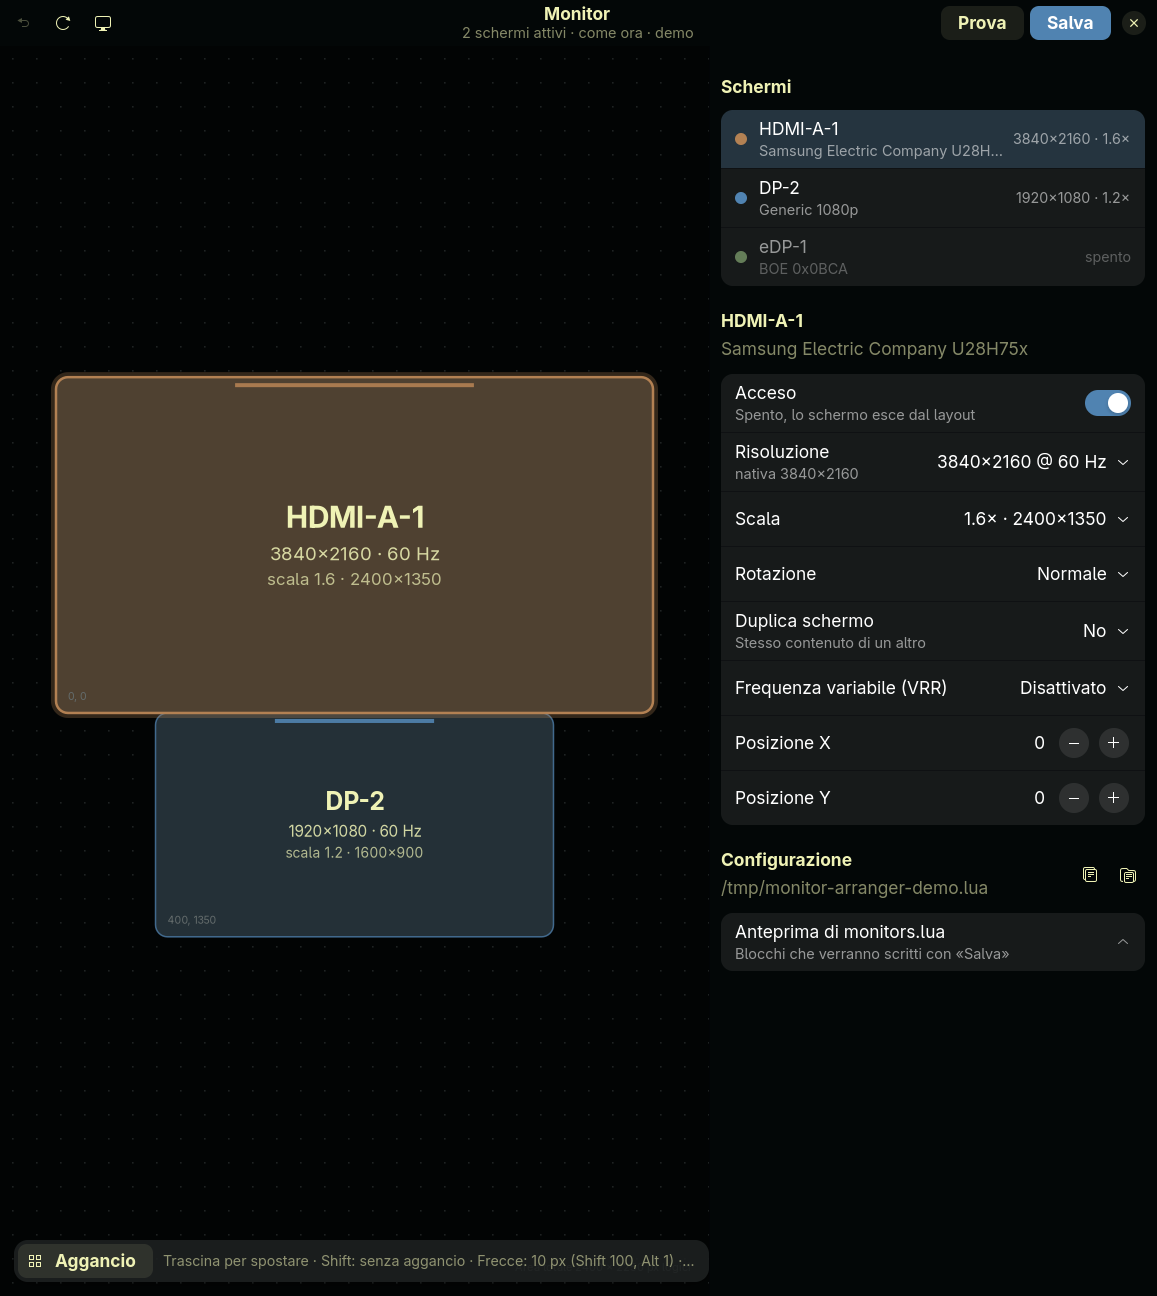
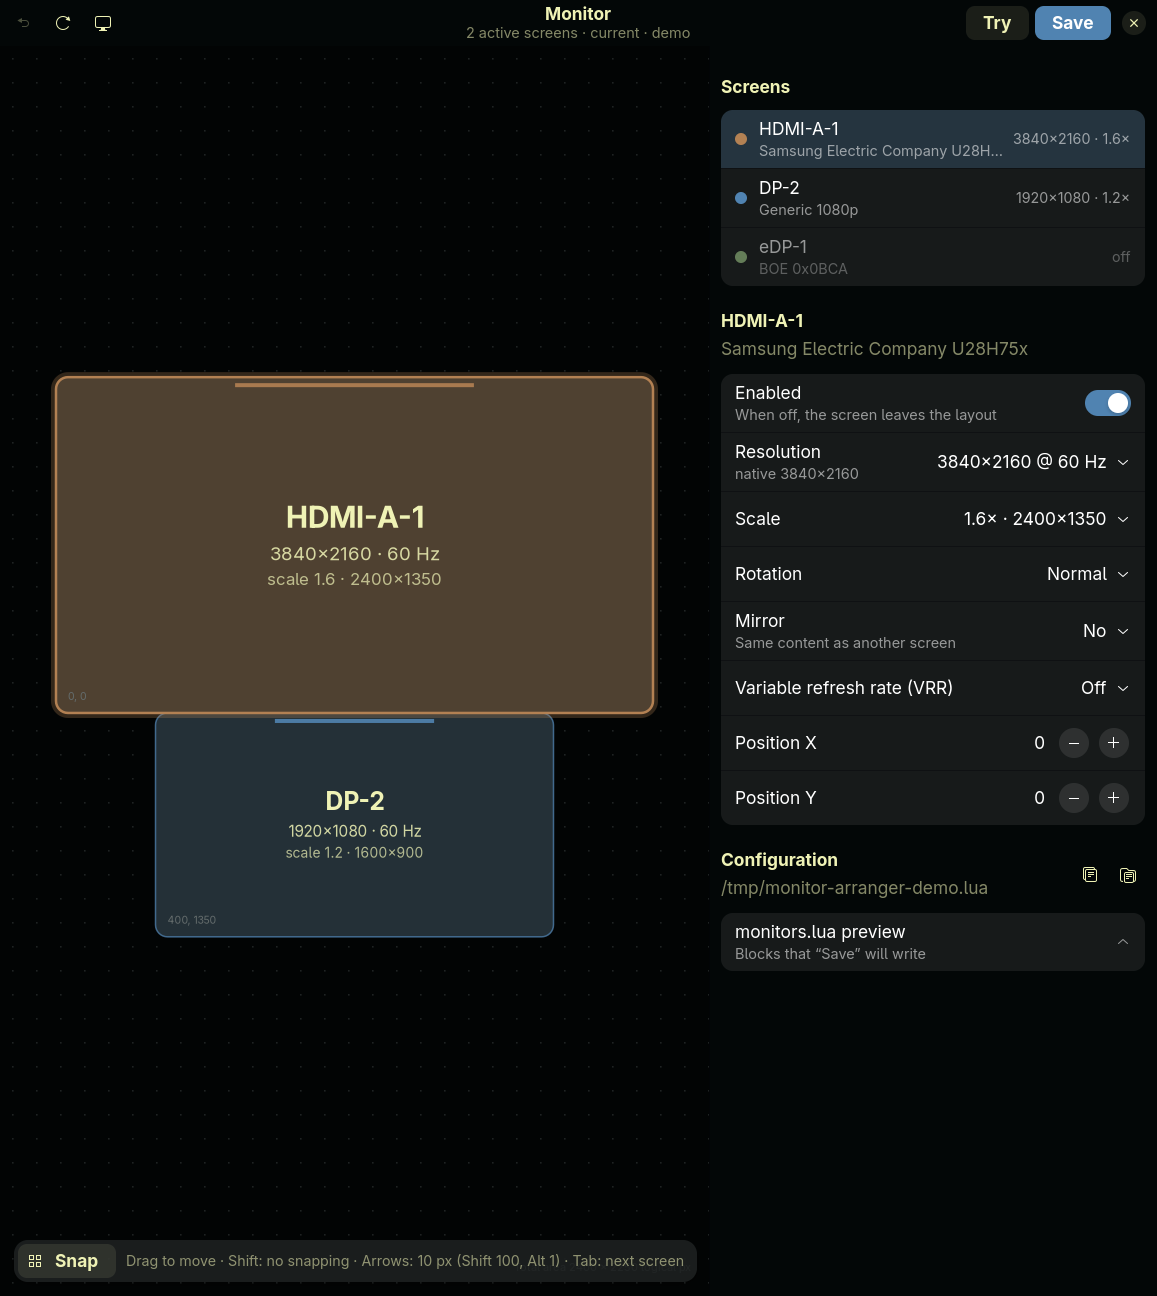
Translate the standalone GTK app to English
UI strings, dialogs, tooltips, comments and docstrings are now in English. Desktop entry comment, README status and demo screenshot updated accordingly.

diff --git a/README.md b/README.md
@@ -7,8 +7,8 @@ mirroring, try the result live with an automatic rollback, then save it to
 
 ![Monitor Arranger](docs/screenshot.png)
 
-> **Status:** standalone GTK4/libadwaita app (Python). The UI is currently in
-> Italian. A native Omarchy shell plugin is planned — see [Roadmap](#roadmap).
+> **Status:** standalone GTK4/libadwaita app (Python). A native Omarchy shell
+> plugin is in development on the [`plugin`](../../tree/plugin) branch — see [Roadmap](#roadmap).
 
 ## Features
 
@@ -74,7 +74,7 @@ monitor-arranger --config FILE    # alternative monitors.lua
 
 ## Roadmap
 
-- [ ] English UI / translations
+- [x] English UI
 - [ ] Native Omarchy shell plugin (QML) published on
       [plugins.omarchy.org](https://plugins.omarchy.org)
 - [ ] "Arrange displays…" entry from the built-in Display panel / Omarchy menu
